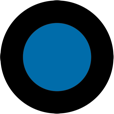
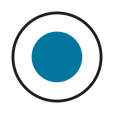
Simplified and lightened the theme

diff --git a/static/css/theme.css b/static/css/theme.css
@@ -33,6 +33,15 @@ a {
     color: #16A4E0;
 }
 
+a,
+a:hover {
+    -webkit-transition: color 0.33s;
+       -moz-transition: color 0.33s;
+        -ms-transition: color 0.33s;
+         -o-transition: color 0.33s;
+            transition: color 0.33s;
+}
+
 a:hover,
 header.site h2 a:hover,
 header.site a[class^="icon-"]:hover {
@@ -81,31 +90,17 @@ header.site {
     top: 0px;
     left: 0px;
     width: 250px;
-    background-color: #032625;
     height: 100%;
-    background: url('../img/paper.png') repeat center;
-
-    -webkit-box-shadow: inset -10px 0px 3px -7px #ccc;
-       -moz-box-shadow: inset -10px 0px 3px -7px #ccc;
-        -ms-box-shadow: inset -10px 0px 3px -7px #ccc;
-         -o-box-shadow: inset -10px 0px 3px -7px #ccc;
-            box-shadow: inset -10px 0px 3px -7px #ccc;
-}
-
-header.site .wrapper {
-    position: absolute;
-    max-height: 310px;
-    top: 0px;
-    bottom: 0px;
-    left: 0px;
-    right: 0px;
-    margin: auto;
+    background-color: #fff;
+    border-right: solid 1px #ccc;
+    overflow: auto;
 }
 
 header.site h2 {
     text-align: center;
     text-transform: uppercase;
     font-size: 0.9rem;
+    margin-bottom: 3rem;
 }
 
 header.site h2 a {
@@ -119,25 +114,34 @@ header.site a {
 
 header.site a[class^="icon-"] {
     color: #666;
-    font-size: 1.2em;
-    width: 1.42em;
-    height: 1.7em;
-    line-height: 1.6em;
+    font-size: 2.2em;
     text-align: center;
     vertical-align: middle;
     padding: 1px;
+    width: 1.75em;
+    height: 1.75em;
+    line-height: 1.75em;
     -webkit-border-radius: 50%;
        -moz-border-radius: 50%;
         -ms-border-radius: 50%;
          -o-border-radius: 50%;
             border-radius: 50%;
+    -webkit-transition: height 0.25s, color 0.25s, font-size 0.25s, line-height 0.25s;
+       -moz-transition: height 0.25s, color 0.25s, font-size 0.25s, line-height 0.25s;
+        -ms-transition: height 0.25s, color 0.25s, font-size 0.25s, line-height 0.25s;
+         -o-transition: height 0.25s, color 0.25s, font-size 0.25s, line-height 0.25s;
+            transition: height 0.25s, color 0.25s, font-size 0.25s, line-height 0.25s;
 }
 
 header.site a[class^="icon-"]:hover {
-    font-size: 1.7em;
-    width: 1em;
-    height: 1.2em;
-    line-height: 1.2em;
+    font-size: 3em;
+    line-height: 1.28em;
+    height: 1.28em;
+    -webkit-transition: height 0.25s, color 0.25s, font-size 0.25s, line-height 0.25s;
+       -moz-transition: height 0.25s, color 0.25s, font-size 0.25s, line-height 0.25s;
+        -ms-transition: height 0.25s, color 0.25s, font-size 0.25s, line-height 0.25s;
+         -o-transition: height 0.25s, color 0.25s, font-size 0.25s, line-height 0.25s;
+            transition: height 0.25s, color 0.25s, font-size 0.25s, line-height 0.25s;
 }
 
 header.site ul {
@@ -146,14 +150,14 @@ header.site ul {
 
 header.site li {
     text-align: center;
-    display: inline-block;
+    display: block;
 }
 
 header.site a.avatar {
     display: block;
-    margin: 0px auto 25px auto;
-    width: 100px;
-    height: 100px;
+    margin: 0px auto 10px auto;
+    width: 80px;
+    height: 80px;
 
     -webkit-box-shadow: inset 2px 2px 5px rgba(0,0,0,0.5), inset 0 0 2px 1px rgba(0,0,0,0.05);
        -moz-box-shadow: inset 2px 2px 5px rgba(0,0,0,0.5), inset 0 0 2px 1px rgba(0,0,0,0.05);
@@ -227,14 +231,10 @@ header.site {
     right: 0px;
     width: 100%;
     margin: 0px;
-    transition: none;
     padding: 10px 15px;
     text-align: center;
-    -webkit-box-shadow: inset 0px 10px 8px -5px #ccc;
-       -moz-box-shadow: inset 0px 10px 8px -5px #ccc;
-        -ms-box-shadow: inset 0px 10px 8px -5px #ccc;
-         -o-box-shadow: inset 0px 10px 8px -5px #ccc;
-            box-shadow: inset 0px 10px 8px -5px #ccc;
+    border: 0;
+    border-top: solid 1px #ccc;
 }
 
 header.site:before {
@@ -252,56 +252,57 @@ header.site:before {
 }
 
 header.site .wrapper {
-    height: 90px;
-    width: 375px;
-    margin: 35px auto 0px;
-}
-
-header.site a.avatar {
-    width: 60px;
-    height: 60px;
-    margin: 0px;
-    display: inline-block;
-}
-
-header.site a[class^="icon-"] {
-    font-size: 1.4em;
-    width: 1.2em;
-    height: 1.7em;
+    position: absolute;
+    top: 0px;
+    bottom: 0px;
+    left: 0px;
+    right: 0px;
 }
 
 header.site h2,
 header.site section,
 header.site a.avatar {
-    display: inline;
     position: absolute;
     left: 0px;
     right: 0px;
-    top: 0px;
-    bottom: auto;
-    vertical-align: middle;
-    margin: auto;
+    top: 20px;
+    bottom: 0px;
 }
 
 header.site h2 {
-    margin-left: 15px;
     right: auto;
+    left: 100px;
 }
 
 header.site section {
-    top: -4px;
-    margin-right: -10px;
     left: auto;
+    right: 30px;
 }
 
 header.site a.avatar {
-    top: -15px;
+    left: 30px;
+    top: 15px;
     bottom: auto;
+    margin: 0px;
+    width: 60px;
+    height: 60px;
+    background-size: 60px;
+    display: block;
+}
+
+header.site a[class^="icon-"] {
+    font-size: 1.8em;
+    width: 2em;
+}
+
+header.site a[class^="icon-"]:hover {
+    font-size: 2.5em;
+    width: 1.44em;
+    line-height: 1em;
 }
 
 header.site li {
     display: inline-block;
-    vertical-align: middle;
     margin-left: 10px;
 }
 
@@ -315,12 +316,38 @@ header.site a {
 
 section.content {
     margin: 0px;
-    transition: none;
     padding-bottom: 120px;
 }
 
 }
 
+
+@media (max-width:600px) {
+
+header.site a.avatar {
+    left: 15px;
+}
+
+header.site h2 {
+    left: 90px;
+}
+
+header.site section {
+    right: 15px;
+}
+
+header.site a[class^="icon-"] {
+    font-size: 1.7em;
+    width: 1.1em;
+}
+
+header.site a[class^="icon-"]:hover {
+    font-size: 2em;
+    width: 0.95em;
+    line-height: 1em;
+}
+
+}
 
 @media (max-width:480px) {
 
@@ -337,29 +364,24 @@ header.site {
     right: 0px;
     width: 100%;
     margin: 0px;
-    transition: none;
     padding: 12px 15px;
     text-align: center;
-    -webkit-box-shadow: inset 0px -10px 8px -5px #ccc;
-       -moz-box-shadow: inset 0px -10px 8px -5px #ccc;
-        -ms-box-shadow: inset 0px -10px 8px -5px #ccc;
-         -o-box-shadow: inset 0px -10px 8px -5px #ccc;
-            box-shadow: inset 0px -10px 8px -5px #ccc;
+    border: 0;
+    border-bottom: solid 1px #ccc;
 }
 
 header.site .wrapper {
     position: static;
     margin: auto;
     text-align: left;
-    width: 240px;
+    width: 275px;
 }
 
 header.site h2,
 header.site a.avatar,
 header.site section {
-    text-align: left;
     position: static;
-    width: auto;
+    text-align: left;
     display: inline-block;
     margin: 0px;
 }
@@ -370,6 +392,7 @@ header.site .stack {
 
 header.site h2,
 header.site section {
+    width: auto;
     display: block;
 }
 
@@ -378,8 +401,6 @@ header.site h2 {
 }
 
 header.site a.avatar {
-    width: 60px;
-    height: 60px;
     margin: 0px 20px 0px 0px;
     float: left;
 }
@@ -392,7 +413,6 @@ header.site a[class^="icon-"] {
 
 section.content {
     margin: 0px;
-    transition: none;
     padding-bottom: 20px;
     padding-top: 150px;
 }

diff --git a/_layouts/default.html b/_layouts/default.html
@@ -35,13 +35,14 @@
   <body{% if page.class %} class="{{ page.class }}"{% endif %}>
     <header class="site">
       <div class="wrapper">
-        <a class="avatar" href="/" style="background-image:url('{{ site.gravatar_url }}?s=100');"></a>
+        <a class="avatar" href="/" style="background-image:url('{{ site.gravatar_url }}?s=80');"></a>
         <div class="stack">
           <h2 class="name">
             <a href="/">{{ site.name }}</a>
           </h2>
           <section>
             <ul class="unstyled">
+              <li><a class="icon-home" href="/"></a></li>
               <li><a class="icon-info-sign" href="/about/"></a></li>
               <li><a class="icon-github-alt" href="https://github.com/{{ site.github }}"></a></li>
               <li><a class="icon-twitter" href="https://twitter.com/{{ site.twitter }}"></a></li>
